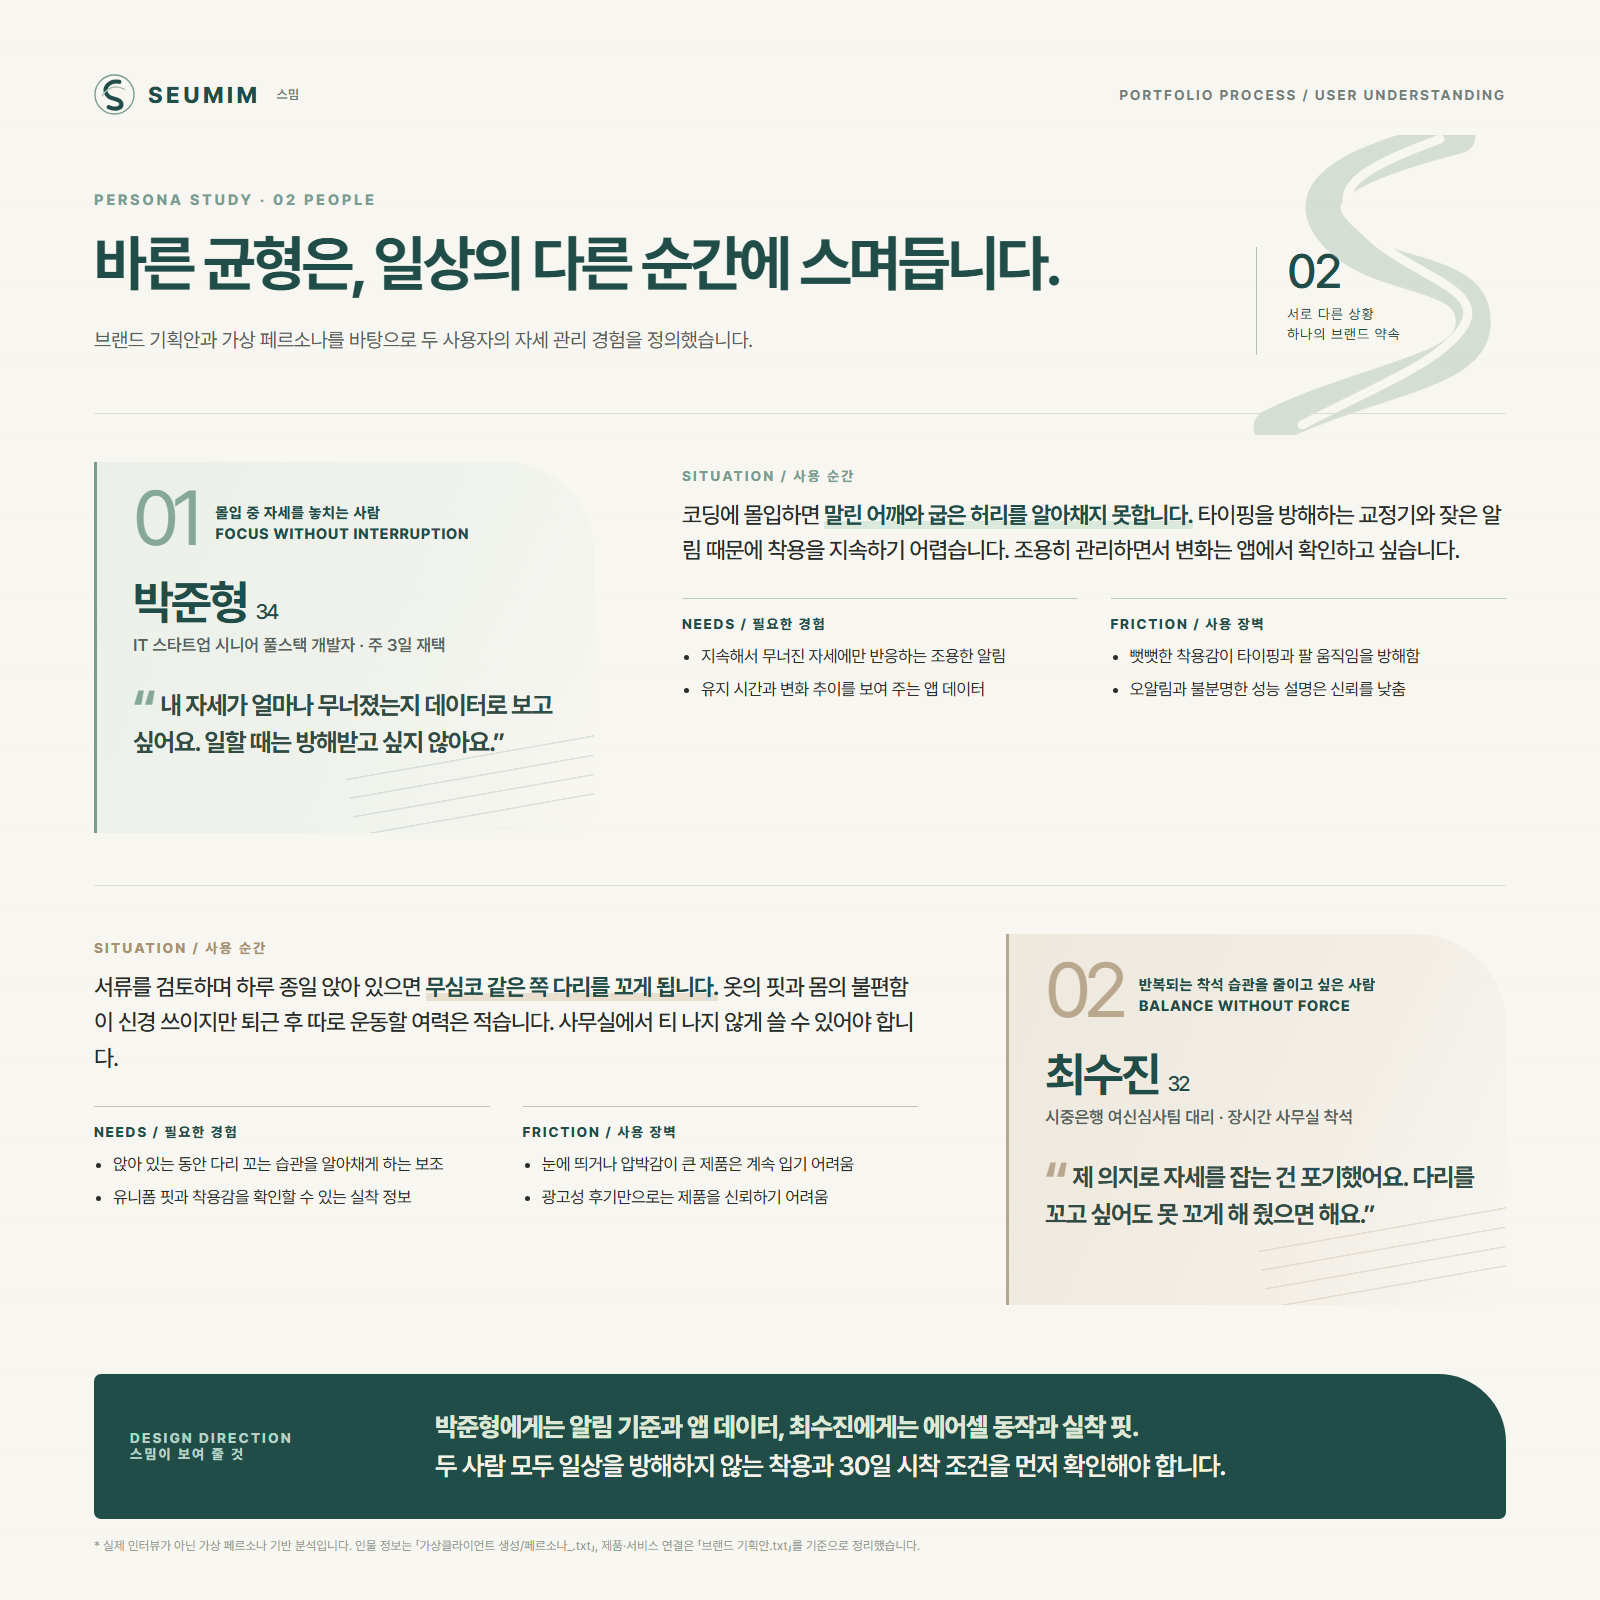
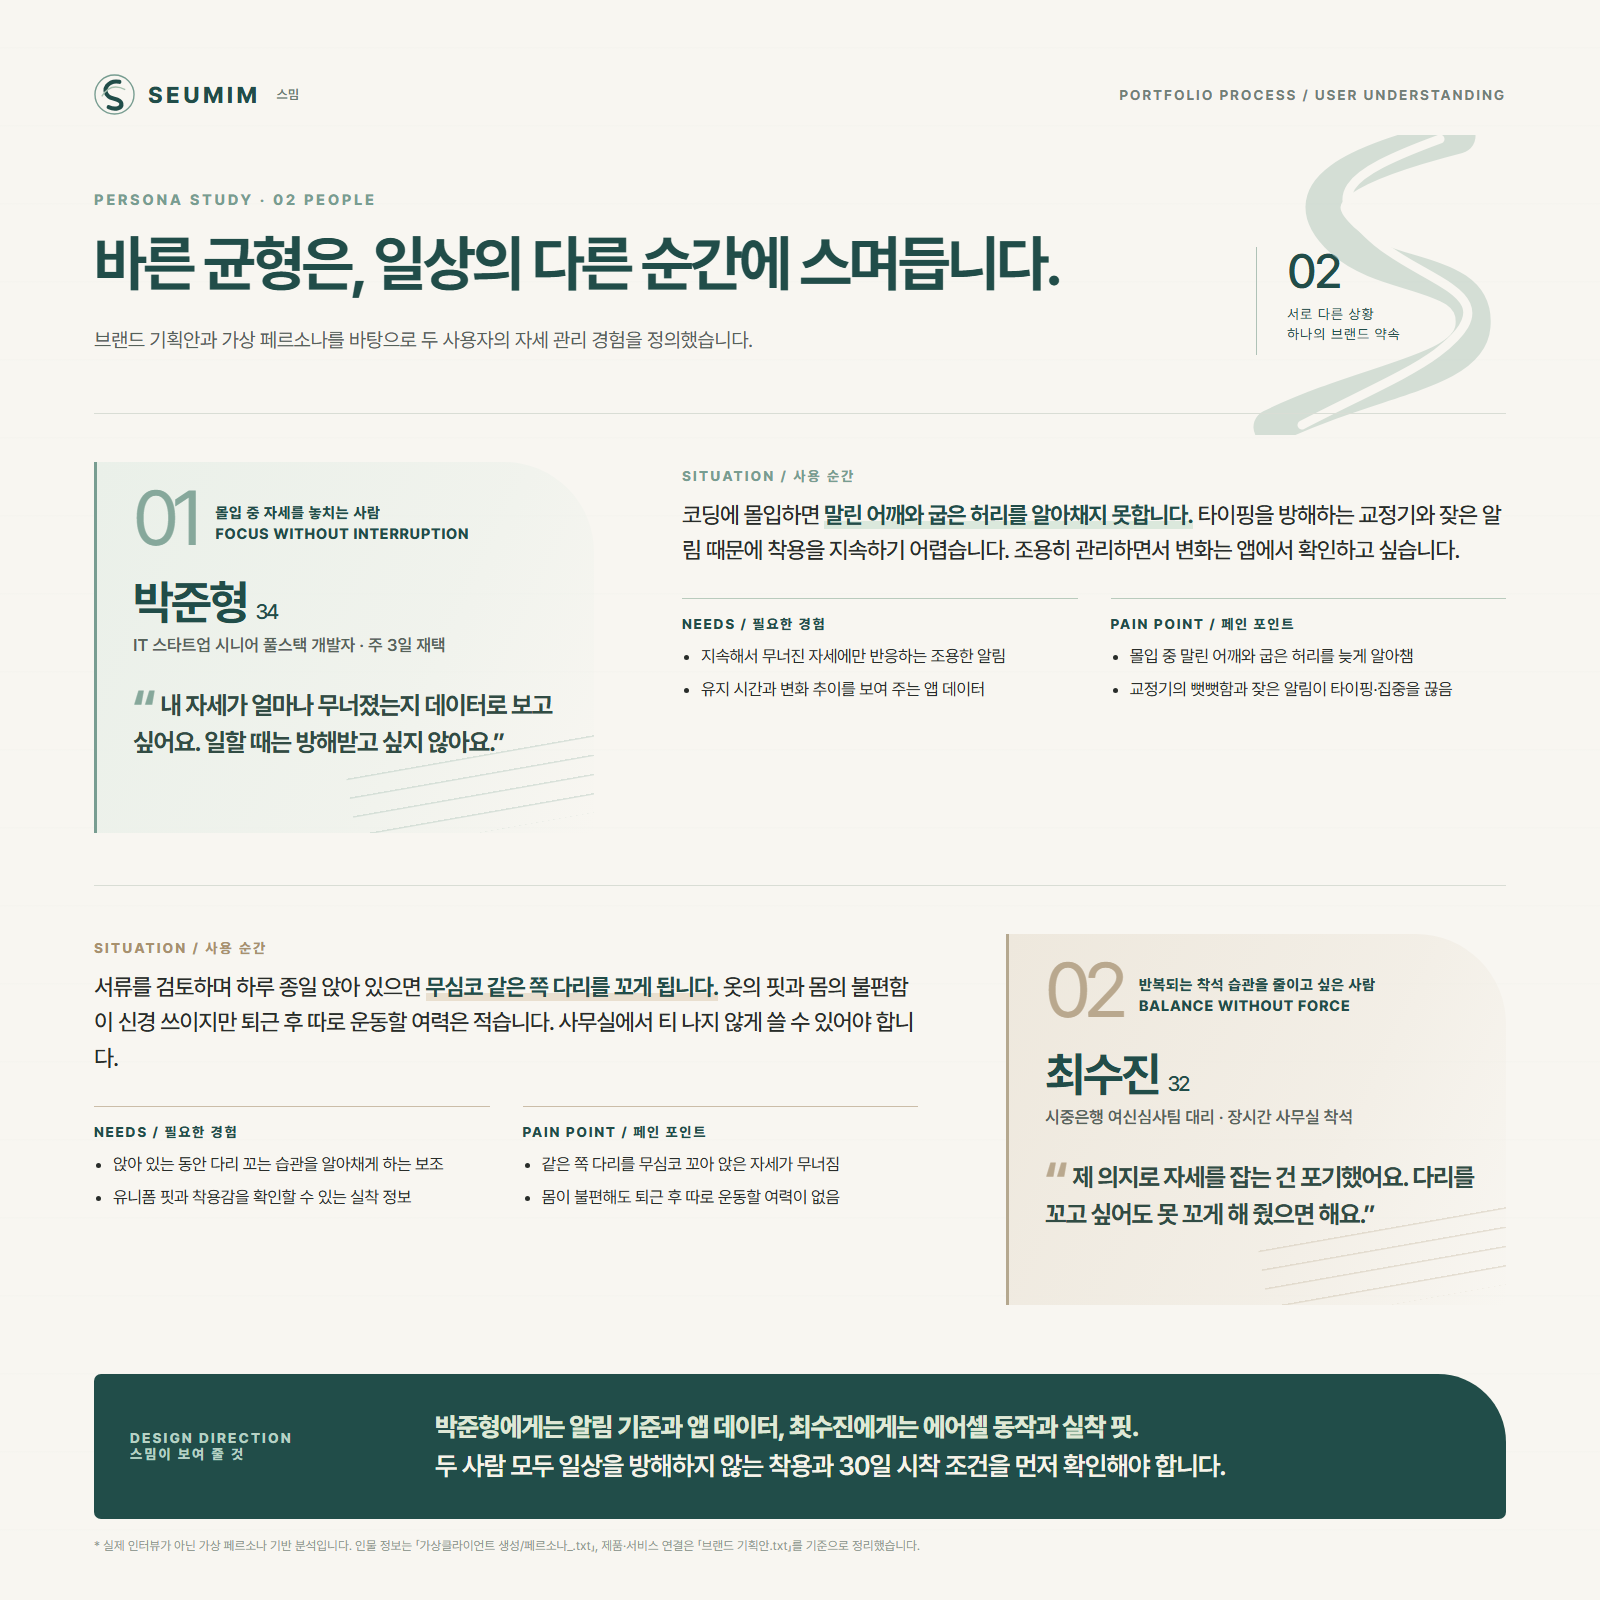
커밋

Changed region(s): [[0.6875, 0.375, 0.9062, 0.4375], [0.3438, 0.6875, 0.5312, 0.75]]

diff --git a/포트폴리오 프로세스/브랜드_네이밍_슬로건_핵심가치_레이아웃.html b/포트폴리오 프로세스/브랜드_네이밍_슬로건_핵심가치_레이아웃.html
@@ -1,0 +1,77 @@
+<!doctype html>
+<html lang="ko">
+<head>
+  <meta charset="utf-8">
+  <meta name="viewport" content="width=device-width, initial-scale=1">
+  <title>SEUMIM | 이름에 담은 균형</title>
+  <style>
+    :root { --paper:#f9f8f5; --ink:#26302a; --teal:#244e47; --sage:#7e9f8d; --muted:#737b73; --line:#d9ddd6; --highlight:#e7ede5; }
+    * { box-sizing:border-box; }
+    html { background:#e9e9e4; }
+    body { margin:0; color:var(--ink); font-family:Pretendard,"Malgun Gothic",sans-serif; -webkit-font-smoothing:antialiased; }
+    .sheet { position:relative; width:1600px; height:1200px; margin:auto; padding:72px 104px 54px; overflow:hidden; background:var(--paper) url("브랜드_네이밍_가치_배경.png") center / cover no-repeat; }
+    .sheet::before { content:""; position:absolute; inset:0; opacity:.22; pointer-events:none; background:repeating-linear-gradient(0deg,transparent 0 92px,rgba(78,90,78,.04) 93px 94px); }
+    .sheet > * { position:relative; z-index:1; }
+    .topline { display:flex; justify-content:space-between; align-items:center; border-bottom:1px solid var(--line); padding-bottom:20px; color:var(--teal); font-size:13px; font-weight:750; letter-spacing:.17em; }
+    .topline span:last-child { color:#8b938b; }
+    .eyebrow { margin:0; color:var(--sage); font-size:14px; font-weight:800; letter-spacing:.18em; }
+    .naming { position:relative; margin-top:68px; padding-bottom:45px; border-bottom:1px solid var(--line); }
+    .name-lockup { display:flex; align-items:flex-end; gap:32px; margin-top:24px; }
+    h1 { margin:0; color:#1b2c23; font-family:"Noto Serif KR","Batang",serif; font-size:153px; font-weight:400; line-height:1.03; letter-spacing:-.09em; }
+    .roman { padding-bottom:21px; color:#4d5950; font-size:24px; letter-spacing:.09em; }
+    .origin { margin:12px 0 0 5px; color:#858d83; font-size:20px; letter-spacing:-.035em; }
+    .meaning { max-width:1220px; margin:48px 0 0 5px; font-size:28px; font-weight:500; line-height:1.64; letter-spacing:-.047em; }
+    .meaning strong { color:var(--teal); font-weight:650; }
+    .meaning em { font-style:normal; box-shadow:inset 0 -12px 0 var(--highlight); }
+    .slogan { padding:38px 0 35px; border-bottom:1px solid var(--line); }
+    .slogan h2 { margin:18px 0 8px; color:var(--teal); font-family:"Noto Serif KR","Batang",serif; font-size:60px; font-weight:400; line-height:1.45; letter-spacing:-.07em; }
+    .slogan h2 span { box-shadow:inset 0 -15px 0 var(--highlight); }
+    .slogan p:last-child { margin:0; color:#5f685f; font-size:25px; letter-spacing:-.035em; }
+    .values { padding-top:38px; }
+    .values h2 { margin:0; color:var(--sage); font-size:14px; font-weight:800; letter-spacing:.18em; }
+    .value-story { max-width:1200px; margin:25px 0 0; color:#4b554c; font-size:23px; line-height:1.58; letter-spacing:-.035em; }
+    .value-story strong { color:var(--teal); font-weight:700; }
+    .source { position:absolute; right:104px; bottom:44px; left:104px; color:#a1a8a0; font-size:11px; line-height:1.5; }
+    .source p { margin:0; }
+    @media screen and (max-width:1000px) {
+      .sheet { width:100%; height:auto; min-height:0; padding:40px 25px 60px; }
+      .topline { font-size:10px; }
+      .naming { margin-top:80px; padding-bottom:65px; }
+      h1 { font-size:clamp(85px,16vw,145px); }
+      .roman { font-size:15px; }
+      .origin { font-size:16px; }
+      .meaning { margin-top:55px; font-size:22px; }
+      .slogan h2 { font-size:clamp(35px,7vw,55px); }
+      .slogan p:last-child { font-size:20px; }
+      .value-story { font-size:19px; }
+      .source { position:static; display:block; margin-top:55px; }
+    }
+    @media print { @page { size:1600px 1200px; margin:0; } html,body,.sheet { margin:0; print-color-adjust:exact; -webkit-print-color-adjust:exact; } }
+  </style>
+</head>
+<body>
+  <main class="sheet">
+    <header class="topline"><span>SEUMIM / BRAND LANGUAGE</span><span>PORTFOLIO PROCESS / BRAND IDENTITY</span></header>
+
+    <section class="naming" aria-labelledby="naming-title">
+      <p class="eyebrow">01 / BRAND NAMING</p>
+      <div class="name-lockup"><h1 id="naming-title">스밈</h1><span class="roman">[ SEUMIM ]</span></div>
+      <p class="origin">스며들다 → 스밈</p>
+      <p class="meaning">바른 자세가 필요해도, 바쁜 하루를 멈춰 관리하기는 어렵습니다.<br>우리는 몸을 억지로 조이기보다, <strong>작은 균형이 일상에 스며들기를 바랐습니다.</strong><br><em>그 바람을 담아 ‘스밈’이라 이름 지었습니다.</em></p>
+    </section>
+
+    <section class="slogan" aria-labelledby="slogan-title">
+      <p class="eyebrow">02 / BRAND SLOGAN</p>
+      <h2 id="slogan-title"><span>일상에 바른 균형이 스며들게.</span></h2>
+      <p>당신의 일상 균형, 스밈.</p>
+    </section>
+
+    <section class="values" aria-labelledby="values-title">
+      <h2 id="values-title">03 / CORE VALUES</h2>
+      <p class="value-story">일상에 오래 머무는 변화는 <strong>편안함</strong>에서 시작됩니다.<br>스밈은 편안히 입고 일하는 동안, 필요한 순간에만 조용히 알려줍니다.<br>그 변화를 앱에서 확인하며, 바른 균형을 매일의 습관으로 이어 갑니다.</p>
+    </section>
+
+    <footer class="source"><p>자료: 브랜드 기획안 · 브랜드 네이밍·슬로건·핵심 가치 분석</p></footer>
+  </main>
+</body>
+</html>

diff --git a/포트폴리오 프로세스/가상페르소나_프로세스_레이아웃.html b/포트폴리오 프로세스/가상페르소나_프로세스_레이아웃.html
@@ -95,7 +95,7 @@
         <p class="scene">코딩에 몰입하면 <strong>말린 어깨와 굽은 허리를 알아채지 못합니다.</strong> 타이핑을 방해하는 교정기와 잦은 알림 때문에 착용을 지속하기 어렵습니다. 조용히 관리하면서 변화는 앱에서 확인하고 싶습니다.</p>
         <div class="analysis-bottom">
           <div class="analysis-col"><h3>NEEDS / 필요한 경험</h3><ul><li>지속해서 무너진 자세에만 반응하는 조용한 알림</li><li>유지 시간과 변화 추이를 보여 주는 앱 데이터</li></ul></div>
-          <div class="analysis-col"><h3>FRICTION / 사용 장벽</h3><ul><li>뻣뻣한 착용감이 타이핑과 팔 움직임을 방해함</li><li>오알림과 불분명한 성능 설명은 신뢰를 낮춤</li></ul></div>
+          <div class="analysis-col"><h3>PAIN POINT / 페인 포인트</h3><ul><li>몰입 중 말린 어깨와 굽은 허리를 늦게 알아챔</li><li>교정기의 뻣뻣함과 잦은 알림이 타이핑·집중을 끊음</li></ul></div>
         </div>
       </div>
     </section>
@@ -106,7 +106,7 @@
         <p class="scene">서류를 검토하며 하루 종일 앉아 있으면 <strong>무심코 같은 쪽 다리를 꼬게 됩니다.</strong> 옷의 핏과 몸의 불편함이 신경 쓰이지만 퇴근 후 따로 운동할 여력은 적습니다. 사무실에서 티 나지 않게 쓸 수 있어야 합니다.</p>
         <div class="analysis-bottom">
           <div class="analysis-col"><h3>NEEDS / 필요한 경험</h3><ul><li>앉아 있는 동안 다리 꼬는 습관을 알아채게 하는 보조</li><li>유니폼 핏과 착용감을 확인할 수 있는 실착 정보</li></ul></div>
-          <div class="analysis-col"><h3>FRICTION / 사용 장벽</h3><ul><li>눈에 띄거나 압박감이 큰 제품은 계속 입기 어려움</li><li>광고성 후기만으로는 제품을 신뢰하기 어려움</li></ul></div>
+          <div class="analysis-col"><h3>PAIN POINT / 페인 포인트</h3><ul><li>같은 쪽 다리를 무심코 꼬아 앉은 자세가 무너짐</li><li>몸이 불편해도 퇴근 후 따로 운동할 여력이 없음</li></ul></div>
         </div>
       </div>
       <div class="identity">
